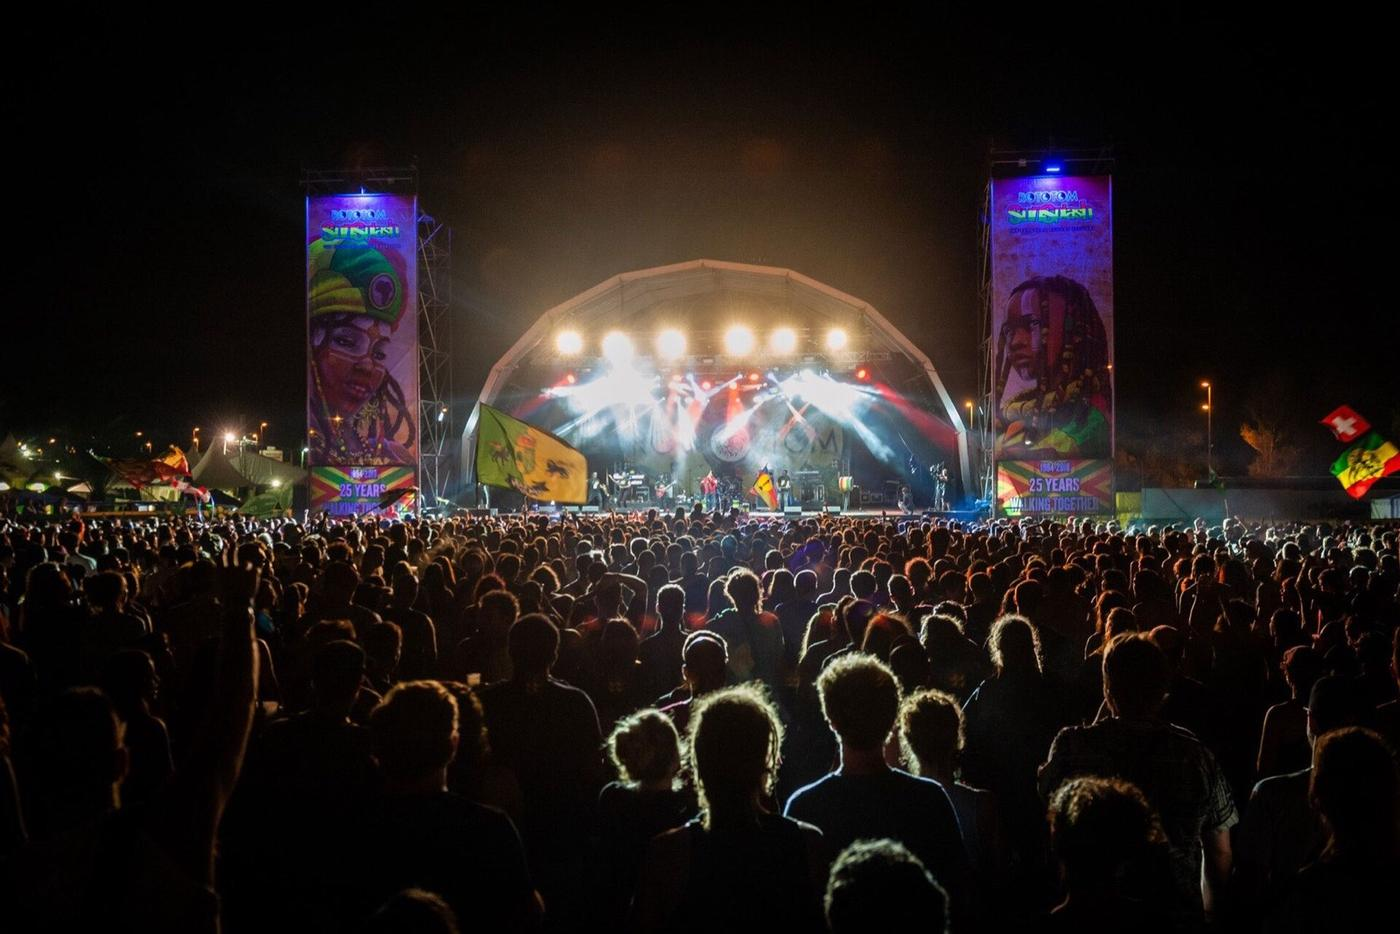
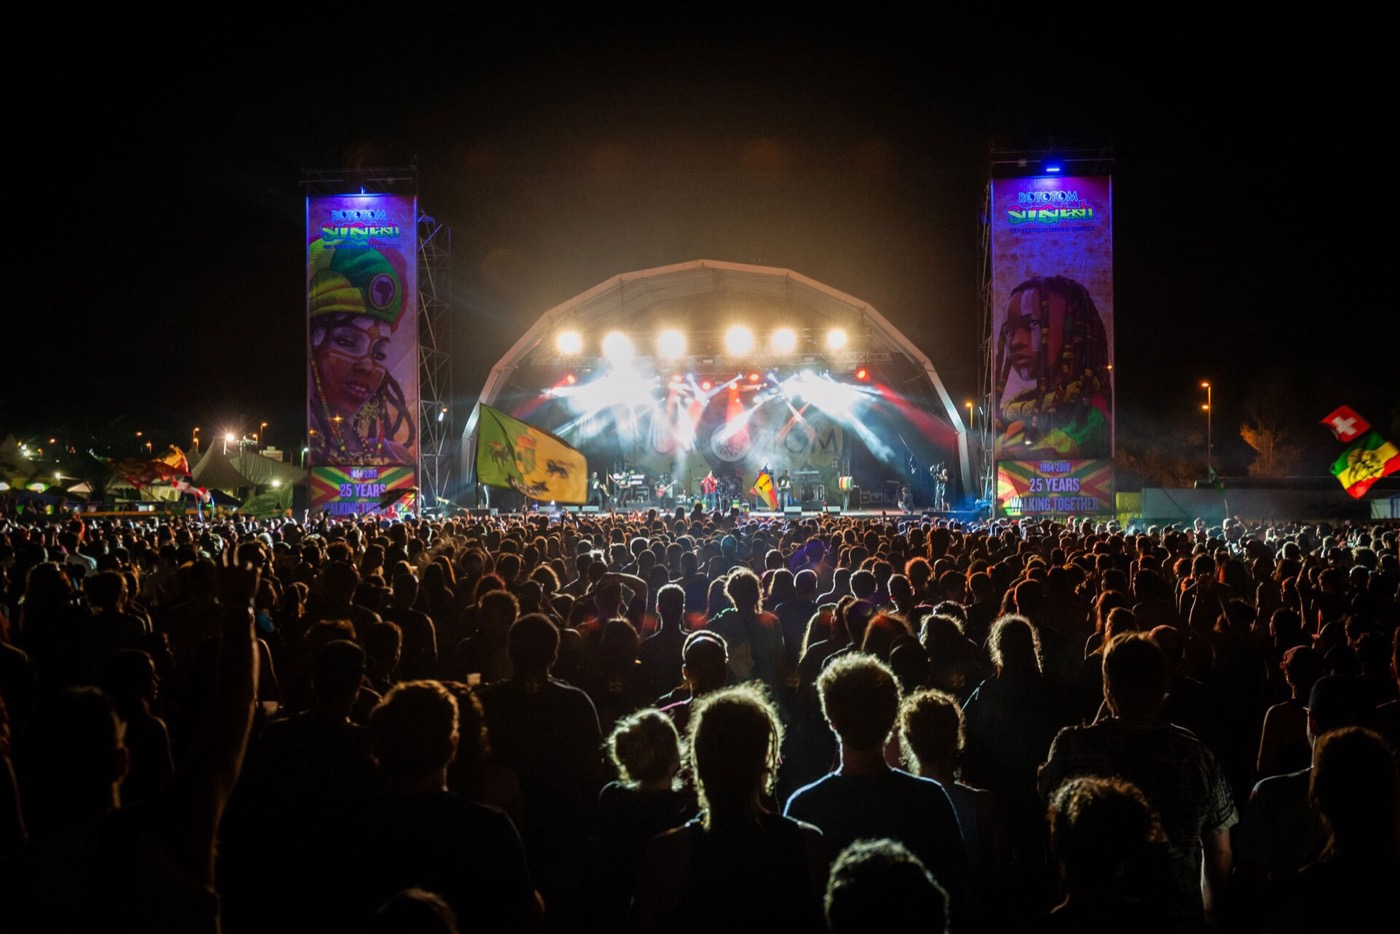
Festivals guide: new photos chosen by the owner (Medusa, Rototom, FIB, Arenal Sound, Rocanrola, Low, Monegros), credits updated

Changed region(s): [[0.7064, 0.2173, 0.7679, 0.2484], [0.2457, 0.2173, 0.2764, 0.2484]]

diff --git a/src/data/routes-content.ts b/src/data/routes-content.ts
@@ -2519,7 +2519,7 @@ const festivales2027: RouteContent = {
   days: [
     {
       photoSlot: "medusa-cullera",
-      image: "/images/routes/medusa-cullera.jpg", imageCredit: "Cullera · CC BY 3.0 · Wikimedia Commons", imageCreditUrl: "https://commons.wikimedia.org/w/index.php?curid=7915008",
+      image: "/images/routes/medusa-cullera.jpg", imageCredit: "Medusafestival · CC BY-SA 4.0 · Wikimedia Commons", imageCreditUrl: "https://commons.wikimedia.org/wiki/File:Medusa_Festival_2018_Mainstage.jpg",
       title: {
         es: "Medusa Sunbeach — Cullera, 40 km",
         en: "Medusa Sunbeach — Cullera, 40 km",
@@ -2541,7 +2541,7 @@ const festivales2027: RouteContent = {
     },
     {
       photoSlot: "rototom-benicassim",
-      image: "/images/routes/rototom-benicassim.jpg", imageCredit: "Luca Valenta · CC BY-SA 4.0 · Wikimedia Commons", imageCreditUrl: "https://commons.wikimedia.org/w/index.php?curid=74519017",
+      image: "/images/routes/rototom-benicassim.jpg", imageCredit: "Luca Valenta · CC BY-SA 4.0 · Wikimedia Commons", imageCreditUrl: "https://commons.wikimedia.org/wiki/File:Rototom_Sunsplash_2018_Main_Stage.jpg",
       title: {
         es: "Rototom Sunsplash — Benicàssim, 90 km",
         en: "Rototom Sunsplash — Benicàssim, 90 km",
@@ -2563,7 +2563,7 @@ const festivales2027: RouteContent = {
     },
     {
       photoSlot: "fib-benicassim",
-      image: "/images/routes/fib-benicassim.jpg", imageCredit: "TheBalticCount · CC BY-SA 4.0 · Wikimedia Commons", imageCreditUrl: "https://commons.wikimedia.org/w/index.php?curid=107794148",
+      image: "/images/routes/fib-benicassim.jpg", imageCredit: "Batiste Safont · CC BY-SA 4.0 · Wikimedia Commons", imageCreditUrl: "https://commons.wikimedia.org/wiki/File:Publico_6.jpg",
       title: {
         es: "FIB — Benicàssim, 90 km",
         en: "FIB — Benicàssim, 90 km",
@@ -2585,7 +2585,7 @@ const festivales2027: RouteContent = {
     },
     {
       photoSlot: "arenal-sound-burriana",
-      image: "/images/routes/arenal-sound-burriana.jpg", imageCredit: "El Ayudante · CC BY-SA 4.0 · Wikimedia Commons", imageCreditUrl: "https://commons.wikimedia.org/w/index.php?curid=39495583",
+      image: "/images/routes/arenal-sound-burriana.jpg", imageCredit: "EquipoTemblor · CC0 · Wikimedia Commons", imageCreditUrl: "https://commons.wikimedia.org/wiki/File:20190802_DORIAN_Arenal_Sound.jpg",
       title: {
         es: "Arenal Sound — Burriana, 65 km",
         en: "Arenal Sound — Burriana, 65 km",
@@ -2607,7 +2607,7 @@ const festivales2027: RouteContent = {
     },
     {
       photoSlot: "rocanrola-alicante",
-      image: "/images/routes/rocanrola-alicante.jpg", imageCredit: "Diego Delso · CC BY-SA 3.0 · Wikimedia Commons", imageCreditUrl: "https://commons.wikimedia.org/w/index.php?curid=33861618",
+      image: "/images/routes/rocanrola-alicante.jpg", imageCredit: "Miguel Angel Villar · CC BY 2.0 · Wikimedia Commons", imageCreditUrl: "https://commons.wikimedia.org/wiki/File:Concierto_Santana_-_Alicante_2018_(31663218978).jpg",
       title: {
         es: "Rocanrola — Alicante, 170 km",
         en: "Rocanrola — Alicante, 170 km",
@@ -2629,7 +2629,7 @@ const festivales2027: RouteContent = {
     },
     {
       photoSlot: "low-festival-torrevieja",
-      image: "/images/routes/low-festival-torrevieja.jpg", imageCredit: "Thomas Dahlstrøm Nielsen · CC BY-SA 4.0 · Wikimedia Commons", imageCreditUrl: "https://commons.wikimedia.org/w/index.php?curid=121449721",
+      image: "/images/routes/low-festival-torrevieja.jpg", imageCredit: "Ximonic (Simo Räsänen) · CC BY-SA 4.0 · Wikimedia Commons", imageCreditUrl: "https://commons.wikimedia.org/wiki/File:Coastal_cityscape_from_Kiosco_El_Tintero,_Playa_del_Cura,_Torrevieja,_Alicante,_Spain,_2022_January.jpg",
       title: {
         es: "Low Festival — Torrevieja, 180 km",
         en: "Low Festival — Torrevieja, 180 km",
@@ -2651,7 +2651,7 @@ const festivales2027: RouteContent = {
     },
     {
       photoSlot: "monegros-fraga",
-      image: "/images/routes/monegros-fraga.jpg", imageCredit: "Smoobs · CC BY 2.0 · Wikimedia Commons", imageCreditUrl: "https://commons.wikimedia.org/wiki/File:Desierto_de_los_Monegros.jpg",
+      image: "/images/routes/monegros-fraga.jpg", imageCredit: "Monegros Desert Festival · CC BY 3.0 · Wikimedia Commons", imageCreditUrl: "https://commons.wikimedia.org/wiki/File:Festival_Monegros_Desert.jpg",
       title: {
         es: "Monegros Desert Festival — Fraga (Huesca), 300 km",
         en: "Monegros Desert Festival — Fraga (Huesca), 300 km",
@@ -2671,13 +2671,13 @@ const festivales2027: RouteContent = {
         uk: "Найекстремальніший у списку і єдиний за межами Валенсійської громади: понад 22 години електронної музики без перерви посеред пустелі Монегрос, біля траси N-II (км 416, Фрага). Фестиваль 2027 року починається в суботу 31 липня о 14:00 і закінчується в неділю 1 серпня о 12:00, на ньому понад 50 000 людей. Для автодомів є окрема парковка з покажчиками: на інших парковках обмеження за висотою, на в'їзді треба показати квиток, електрики й води немає. Кемпінг заборонено, тож жодних маркіз, столів і стільців надворі — сплять усередині машини. У 2026 році парковка відкривалася в п'ятницю о 10:00 і звільнялася в неділю о 22:00; час на 2027 рік звірте, коли вийде карта фестивалю. У пустелі немає тіні: перед входом вимкніть усе, щоб вистачило акумулятора, і візьміть води із запасом. Лише з 18 років, з документом. У листопаді 2026 року звичайний квиток коштував 81 € (акція Black Friday), офіційні автобуси — від 28 €. Від Валенсії близько 300 км, 3 год 30 хв. Сайт: monegrosfestival.com",
       },
       altText: {
-        es: "Paisaje del desierto de los Monegros, cerca de Fraga",
-        en: "Landscape of the Monegros desert near Fraga",
-        de: "Landschaft der Monegros-Wüste bei Fraga",
-        it: "Paesaggio del deserto dei Monegros vicino a Fraga",
-        nl: "Landschap van de Monegros-woestijn bij Fraga",
-        ru: "Пейзаж пустыни Монегрос возле Фраги",
-        uk: "Краєвид пустелі Монегрос біля Фраги",
+        es: "Público en el Monegros Desert Festival, en el desierto cerca de Fraga",
+        en: "Crowd at Monegros Desert Festival in the desert near Fraga",
+        de: "Publikum beim Monegros Desert Festival in der Wüste bei Fraga",
+        it: "Pubblico al Monegros Desert Festival nel deserto vicino a Fraga",
+        nl: "Publiek op Monegros Desert Festival in de woestijn bij Fraga",
+        ru: "Зрители Monegros Desert Festival в пустыне возле Фраги",
+        uk: "Глядачі Monegros Desert Festival у пустелі біля Фраги",
       },
     },
   ],
